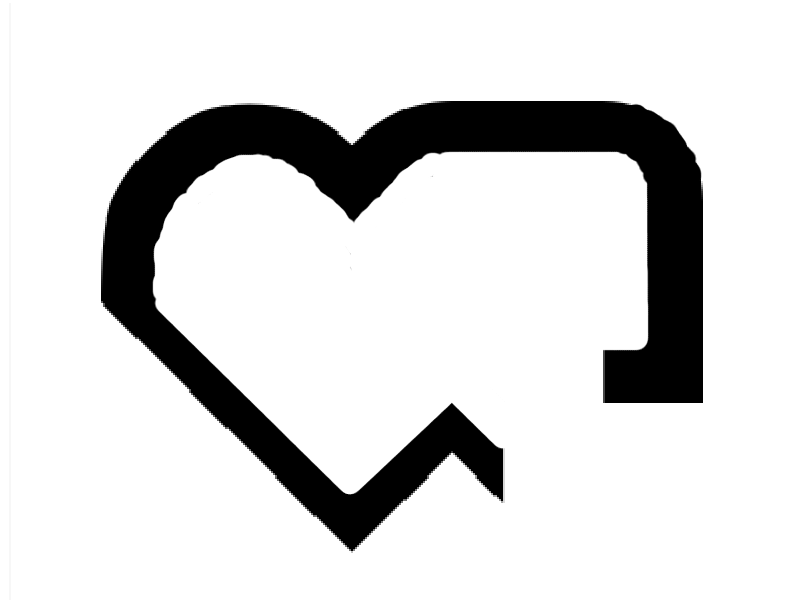
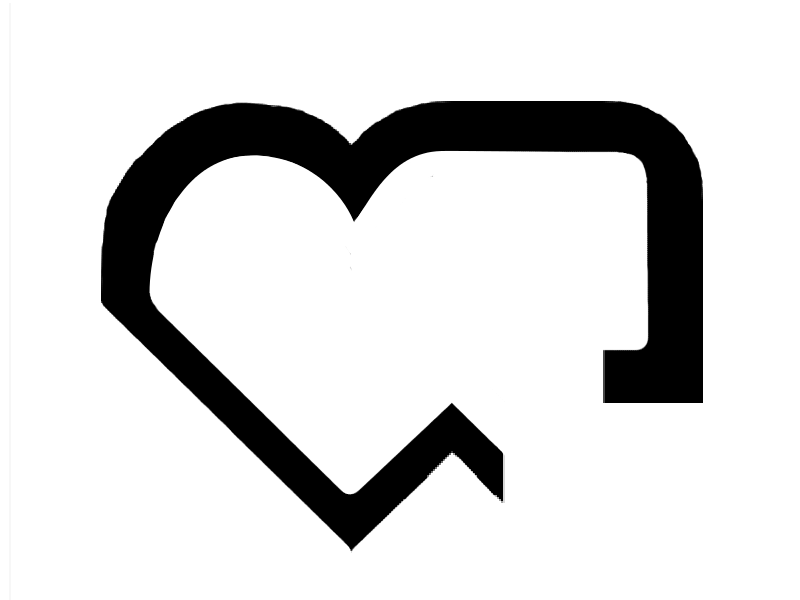
resurrect old regular as semibol, add pen shape

diff --git a/0xA000.css b/0xA000.css
@@ -1,22 +1,37 @@
-@font-face {font-family:'Beta-Regular';           src: url('Beta-Regular.ttf');}
-@font-face {font-family:'0xA000-Regular';           src: url('0xA000-Regular.ttf');}
-@font-face {font-family:'0xA000-Mono';              src: url('0xA000-Mono.ttf');}
-@font-face {font-family:'0xA000-Bold';              src: url('0xA000-Bold.ttf');}
-@font-face {font-family:'0xA000-Pixelated-Mono';    src: url('0xA000-Pixelated-Mono.ttf');}
-@font-face {font-family:'0xA000-Pixelated'; src: url('0xA000-Pixelated.ttf');}
-@font-face {font-family:'0xA000-Boxes-Mono';        src: url('0xA000-Boxes-Mono.ttf');}
-@font-face {font-family:'0xA000-Boxes';     src: url('0xA000-Boxes.ttf');}
-@font-face {font-family:'0xA000-Dots';      src: url('0xA000-Dots.ttf');}
-@font-face {font-family:'0xA000-Dots-Mono';         src: url('0xA000-Dots-Mono.ttf');}
-@font-face {font-family:'0xA000-Monochrome';src: url('0xA000-Monochrome.ttf');}
-@font-face {font-family:'0xA000-Monochrome-Mono';   src: url('0xA000-Monochrome-Mono.ttf');}
+@font-face {font-family:'Beta-Regular';          src: url('Beta-Regular.ttf');}
 
-body       {font-family: '0xA000-Regular'; font-size: 21px;
+@font-face {font-family:'0xA000';                src: url('0xA000-Regular.ttf');}
+@font-face {font-family:'0xA000-Mono';           src: url('0xA000-Mono.ttf');}
+
+@font-face {font-family:'0xA000-Bold';           src: url('0xA000-Bold.ttf');}
+@font-face {font-family:'0xA000-Bold-Mono';      src: url('0xA000-Bold-Mono.ttf');}
+
+@font-face {font-family:'0xA000-Semibold';           src: url('0xA000-Semibold.ttf');}
+@font-face {font-family:'0xA000-Semibold-Mono';      src: url('0xA000-Semibold-Mono.ttf');}
+
+@font-face {font-family:'0xA000-Pixelated-Mono'; src: url('0xA000-Pixelated-Mono.ttf');}
+@font-face {font-family:'0xA000-Pixelated'; src: url('0xA000-Pixelated.ttf');}
+
+@font-face {font-family:'0xA000-Boxes-Mono';     src: url('0xA000-Boxes-Mono.ttf');}
+@font-face {font-family:'0xA000-Boxes';     src: url('0xA000-Boxes.ttf');}
+
+@font-face {font-family:'0xA000-Dots';      src: url('0xA000-Dots.ttf');}
+@font-face {font-family:'0xA000-Dots-Mono';      src: url('0xA000-Dots-Mono.ttf');}
+
+@font-face {font-family:'0xA000-Pen';      src: url('0xA000-Pen.ttf');}
+@font-face {font-family:'0xA000-Pen-Mono';      src: url('0xA000-Pen-Mono.ttf');}
+
+@font-face {font-family:'0xA000-Monochrome';src: url('0xA000-Monochrome.ttf');}
+@font-face {font-family:'0xA000-Monochrome-Mono';src: url('0xA000-Monochrome-Mono.ttf');}
+
+
+
+body       {font-family: '0xA000'; font-size: 21px;
             background-color: #f7f7f7;}
 tt, pre    {font-family: '0xA000-Mono';}
 b          {font-family: '0xA000-Bold'; font-weight: normal;}
 small      {font-size :  7px; }
-h1         {font-size :  3em; font-weight: normal; margin: 0.5em 0 0.25em}
+h1         {font-size :  3em; font-family: '0xA000-Semibold'; font-weight: normal; margin: 0.5em 0 0.25em}
 h2         {font-size :  2em; font-weight: normal; margin: 1.0em 0 0 0}
 h3,h4      {font-size :1.5em; font-weight: normal; margin: 0 0 0 0}
 
@@ -76,6 +91,8 @@ div.glyph {
 .rendering-Reference,
 .rendering-Dots,
 .rendering-Dots-Mono,
+.rendering-Pen,
+.rendering-Pen-Mono,
 .rendering-Boxes,
 .rendering-Regular {
    font-size: 40px;
@@ -106,16 +123,23 @@ div.glyph {
    font-family: '0xA000-Bold';
  }
  .rendering-Regular {
-   font-family: '0xA000-Regular';
+   font-family: '0xA000';
  }
  .rendering-Dots {
    font-family: '0xA000-Dots';
  }
- .rendering-Boxes {
-   font-family: '0xA000-Boxes';
- }
  .rendering-Dots-Mono {
    font-family: '0xA000-Dots-Mono';
+ }
+
+ .rendering-Pen {
+   font-family: '0xA000-Pen';
+ }
+ .rendering-Pen-Mono {
+   font-family: '0xA000-Pen-Mono';
+ }
+ .rendering-Boxes {
+   font-family: '0xA000-Boxes';
  }
 
 div.glyphs {

diff --git a/head.html b/head.html
@@ -3,7 +3,7 @@
     <title>0xA000 Font Family</title>
     <style type='text/css'>
       @import url('0xA000.css');
-      body    {font-family: '0xA000-Regular'; font-size: 21px;}
+      body    {font-family: '0xA000'; font-size: 21px;}
       small {font-size: 7px; }
       tt, pre {font-family: '0xA000-Mono'; }
       b      {font-family: '0xA000-Bold'; }

diff --git a/0xA000-cgen.c b/0xA000-cgen.c
@@ -3,6 +3,8 @@
 #include <string.h>
 #include <stdlib.h>
 
+#define POTRACE_OPTS "-O 1.0 -t 4 "
+
 const char uniglyph[8][8]=
 {"        ",
  " 78mi^b ",
@@ -104,7 +106,7 @@ main (gint    argc,
 
             sprintf (path, "convert %s/c%X.png %s/c%X.pnm", workdir, ascii,  workdir, ascii);
             system (path);
-            sprintf (path, "potrace %s/c%X.pnm -e -c  -M 0 --flat -q", workdir, ascii);
+            sprintf (path, "potrace %s/c%X.pnm %s -e -c  -M 0 --flat -q", workdir, ascii, POTRACE_OPTS);
             system (path);
 
             g_object_unref (buffer);  /* XXX: why is two unrefs needed here? */
@@ -132,7 +134,9 @@ main (gint    argc,
 
             sprintf (path, "convert %s/c%X.png %s/c%X.pnm", workdir, ascii2, workdir, ascii2);
             system (path);
-            sprintf (path, "potrace %s/c%X.pnm -e -c  -M 0 --flat -q", workdir, ascii2);
+
+
+            sprintf (path, "potrace %s/c%X.pnm -e -c %s  -M 0 --flat -q", workdir, ascii2, POTRACE_OPTS);
             system (path);
 
               }
